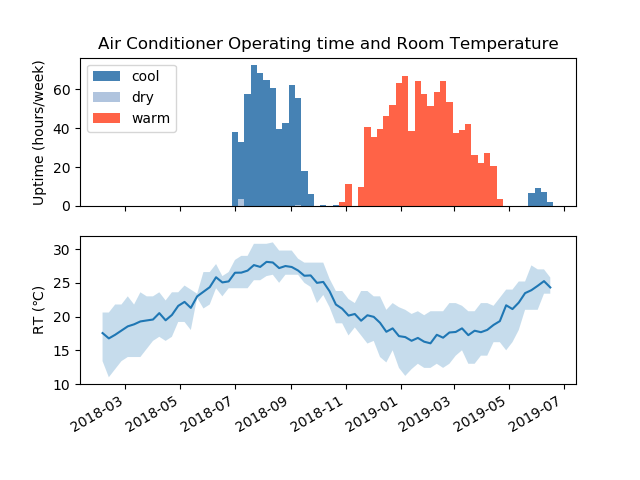
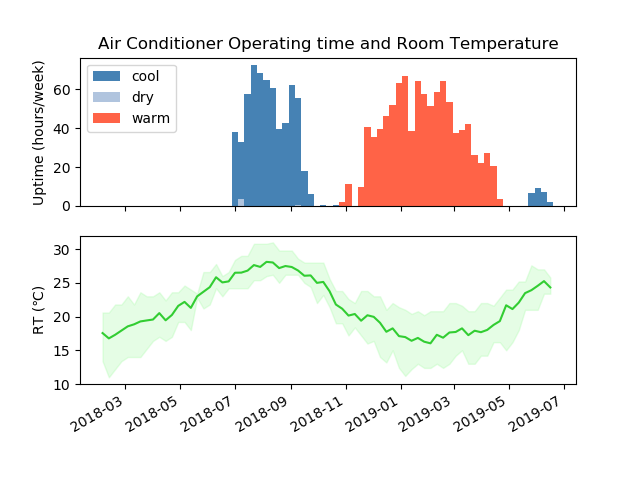
Graph style refinement

Changed region(s): [[0.1562, 0.5, 0.875, 0.7812]]

diff --git a/visualizer/remo_graph.py b/visualizer/remo_graph.py
@@ -73,8 +73,8 @@ print(df_il_10min)
 #all
 fig, (ax1, ax2, ax3) = plt.subplots(3, 1, sharex=True)
 cmap = plt.get_cmap("Set2")
-
 ax1.set_title("Sensor data (All period, Temp, Humidity, Illuminance)")
+
 ax1.plot(df_temp_smooth_all.index, df_temp_smooth_all["temp_mean"], color=cmap(1))
 ax1.fill_between(df_temp_smooth_all.index, df_temp_smooth_all["temp_max"], df_temp_smooth_all["temp_min"], alpha=0.3, color=cmap(1))
 ax1.set_ylabel('RT (℃)')
@@ -99,7 +99,23 @@ plt.savefig("visualize_sensor_data_all_"+str(dt.date.today())+".png")
 plt.show()
 
 #last week
-df_lastweek_smooth.plot(subplots=True, title='Nature Remo sensor data (week)')
+fig, (ax1, ax2, ax3) = plt.subplots(3, 1, sharex=True)
+cmap = plt.get_cmap("Set2")
+
+ax1.set_title("Sensor data (Last week, Temp, Humidity, Illuminance)")
+ax1.plot(df_lastweek_smooth.index, df_lastweek_smooth["temp"], color=cmap(1))
+ax1.set_ylabel('RT (℃)')
+ax1.xaxis_date()
+
+ax2.plot(df_lastweek_smooth.index, df_lastweek_smooth["hu"], color=cmap(2))
+ax2.set_ylabel('H (%)')
+ax2.xaxis_date()
+
+ax3.plot(df_lastweek_smooth.index, df_lastweek_smooth["il"], color=cmap(4))
+ax3.set_ylabel('il')
+ax3.xaxis_date()
+
+fig.autofmt_xdate()
 plt.savefig("visualize_sensor_data_week_"+str(dt.date.today())+".png")
 plt.show()
 

diff --git a/visualizer/aircon_usage_graph.py b/visualizer/aircon_usage_graph.py
@@ -101,10 +101,8 @@ ax1.legend((sb_cool, sb_dry, sb_warm), ('cool', 'dry', 'warm'))
 ax1.xaxis_date()
 ax1.set_ylabel('Uptime (hours/week)')
 
-line_temp = ax2.plot(df_temp_1w_all.index, df_temp_1w_all["mean"])
-#line_temp2 = ax2.plot(df_temp_1w_all.index, df_temp_1w_all["max"], '--')
-#line_temp3 = ax2.plot(df_temp_1w_all.index, df_temp_1w_all["min"], '--')
-line_temp_fill = ax2.fill_between(df_temp_1w_all.index, df_temp_1w_all["max"], df_temp_1w_all["min"], alpha=0.25)
+line_temp = ax2.plot(df_temp_1w_all.index, df_temp_1w_all["mean"], color="limegreen")
+line_temp_fill = ax2.fill_between(df_temp_1w_all.index, df_temp_1w_all["max"], df_temp_1w_all["min"], alpha=0.25, color="palegreen")
 ax2.set_ylabel('RT (℃)')
 
 fig.autofmt_xdate()
